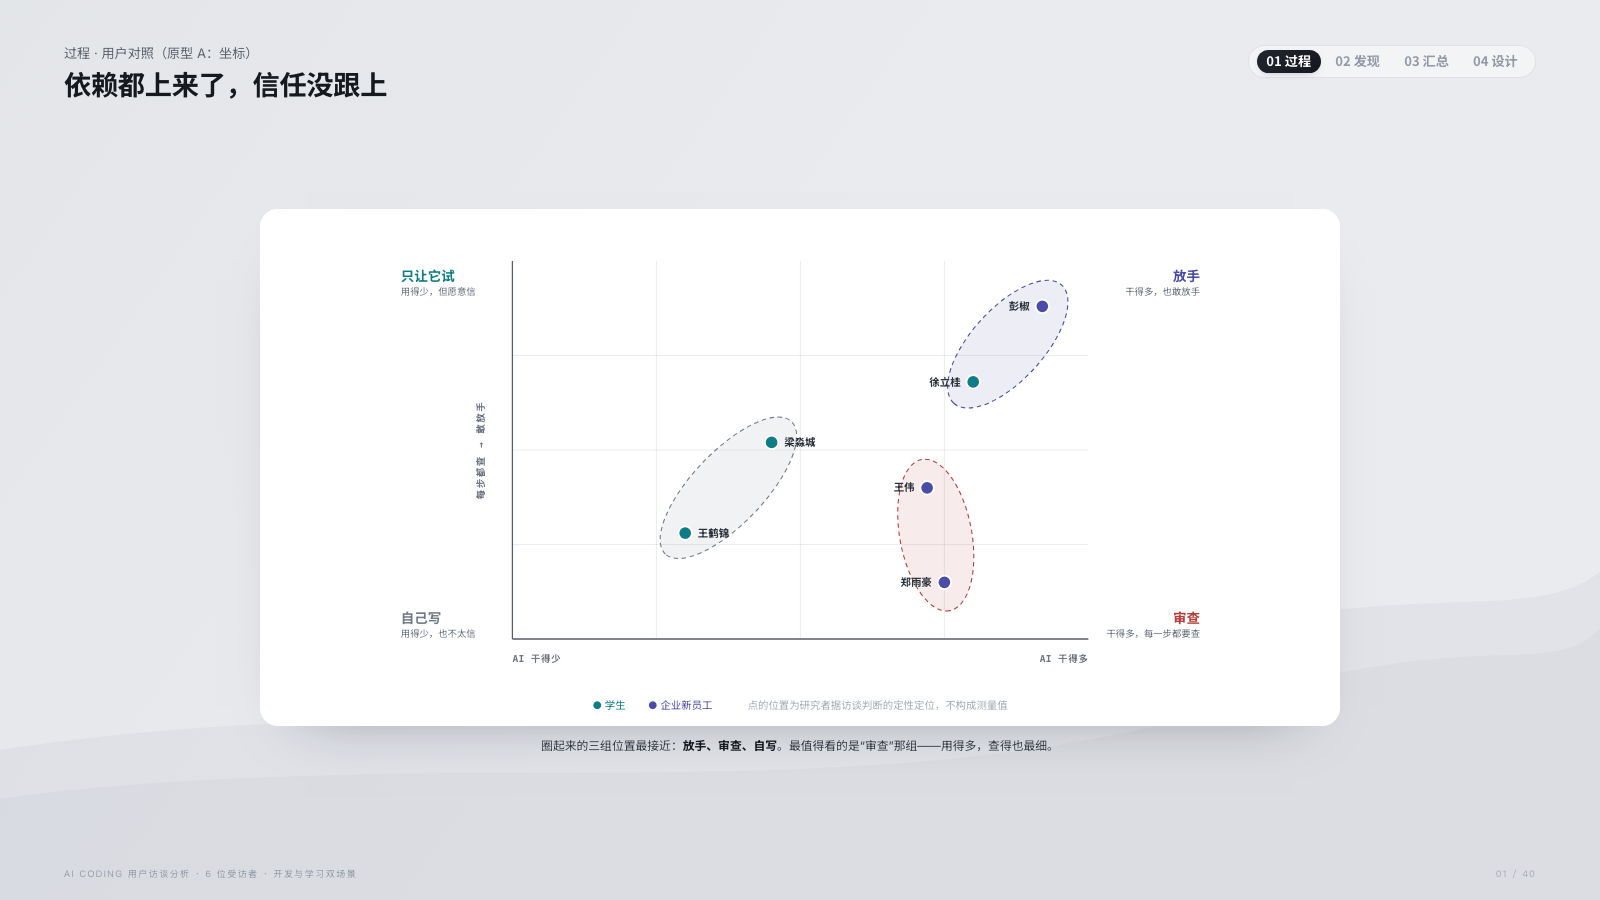
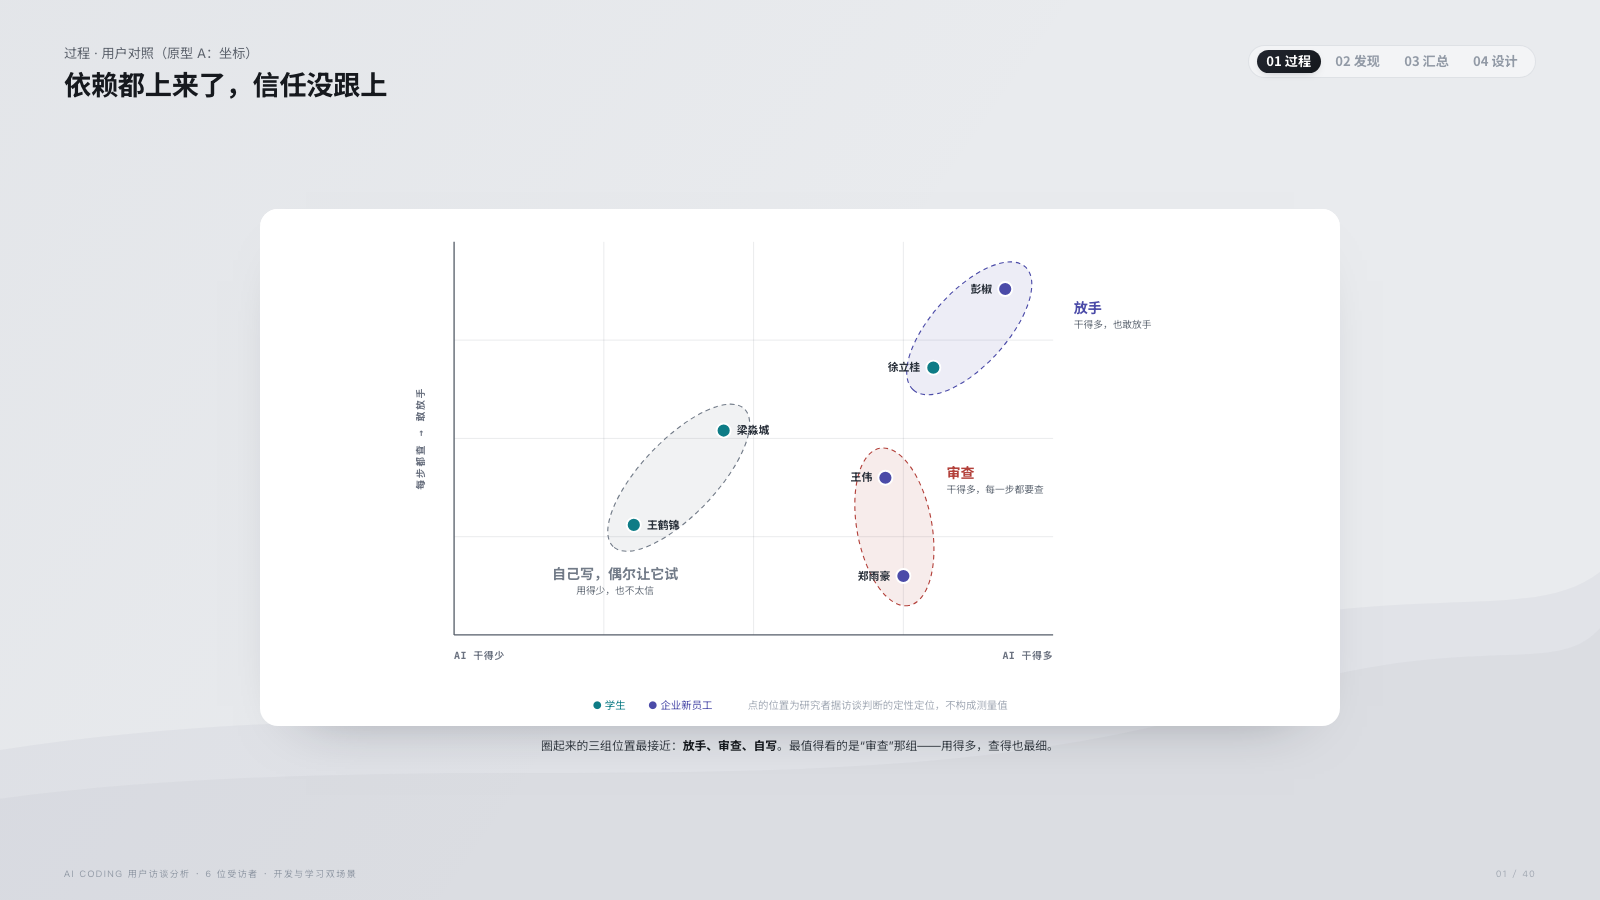
polish: 三组描述文字贴到各自的圈旁，取代四角标签
- 放手 / 审查 / 自己写·偶尔让它试 分别标注在对应虚线圈外侧
- 裁掉画面左侧空白，图表在面板内居中

diff --git a/outputs/019fc599-4de5-77a1-9612-6cbb4caa6090/AI-Coding访谈分析/_proto/介入方式对比.html b/outputs/019fc599-4de5-77a1-9612-6cbb4caa6090/AI-Coding访谈分析/_proto/介入方式对比.html
@@ -1130,11 +1130,11 @@ body.overview #panel,body.overview #toggle{display:none!important}
 </style></head><body><div id="deck"><section class="slide s-gray"><div class="head"><div class="head-l"><div class="brand"><span class="ttl">依赖都上来了，信任没跟上</span></div><div class="subttl">过程 · 用户对照（原型 A：坐标）</div></div><div class="section-tabs" aria-label="当前章节"><span class="active">01 过程</span><span class="">02 发现</span><span class="">03 汇总</span><span class="">04 设计</span></div></div><div class="body-area">
 <div class="proto">
   <div class="k-panel">
-  <svg class="k-svg" viewBox="0 0 940 520" preserveAspectRatio="xMidYMid meet">
+  <svg class="k-svg" viewBox="90 22 860 500" preserveAspectRatio="xMidYMid meet">
     <g class="k-gridg"><line x1="310.0" y1="40" x2="310.0" y2="460" stroke="rgba(76,85,98,.13)"/><line x1="150" y1="145.0" x2="790" y2="145.0" stroke="rgba(76,85,98,.13)"/><line x1="470.0" y1="40" x2="470.0" y2="460" stroke="rgba(76,85,98,.13)"/><line x1="150" y1="250.0" x2="790" y2="250.0" stroke="rgba(76,85,98,.13)"/><line x1="630.0" y1="40" x2="630.0" y2="460" stroke="rgba(76,85,98,.13)"/><line x1="150" y1="355.0" x2="790" y2="355.0" stroke="rgba(76,85,98,.13)"/></g>
     <line class="k-axis" x1="150" y1="460" x2="790" y2="460"/>
     <line class="k-axis" x1="150" y1="40" x2="150" y2="460"/>
-    <text class="k-ql k-Q2" x="26" y="62" text-anchor="start">只让它试</text><text class="k-qn" x="26" y="78" text-anchor="start">用得少，但愿意信</text><text class="k-ql k-Q1" x="914" y="62" text-anchor="end">放手</text><text class="k-qn" x="914" y="78" text-anchor="end">干得多，也敢放手</text><text class="k-ql k-Q3" x="26" y="442" text-anchor="start">自己写</text><text class="k-qn" x="26" y="458" text-anchor="start">用得少，也不太信</text><text class="k-ql k-Q4" x="914" y="442" text-anchor="end">审查</text><text class="k-qn" x="914" y="458" text-anchor="end">干得多，每一步都要查</text>
+    <text class="k-ql k-Q1" x="812" y="116" text-anchor="start">放手</text><text class="k-qn" x="812" y="132" text-anchor="start">干得多，也敢放手</text><text class="k-ql k-Q4" x="676" y="292" text-anchor="start">审查</text><text class="k-qn" x="676" y="308" text-anchor="start">干得多，每一步都要查</text><text class="k-ql k-Q3" x="322" y="400" text-anchor="middle">自己写，偶尔让它试</text><text class="k-qn" x="322" y="416" text-anchor="middle">用得少，也不太信</text>
     <ellipse cx="700.4" cy="132.4" rx="88.9" ry="40.0" fill="#4B4BA81a" stroke="#4B4BA8" stroke-dasharray="5 4" stroke-width="1.2" transform="rotate(132.4 700.4 132.4)"/><ellipse cx="620.4" cy="344.5" rx="85.4" ry="40.0" fill="#B3403A1a" stroke="#B3403A" stroke-dasharray="5 4" stroke-width="1.2" transform="rotate(79.6 620.4 344.5)"/><ellipse cx="390.0" cy="292.0" rx="101.6" ry="40.0" fill="#727B881a" stroke="#727B88" stroke-dasharray="5 4" stroke-width="1.2" transform="rotate(133.6 390.0 292.0)"/>
     <g class="k-pt s"><circle cx="342.0" cy="342.4" r="7.5"/><text x="356.0" y="346.4" text-anchor="start">王鹤锦</text></g><g class="k-pt s"><circle cx="438.0" cy="241.6" r="7.5"/><text x="452.0" y="245.6" text-anchor="start">梁淼城</text></g><g class="k-pt s"><circle cx="662.0" cy="174.4" r="7.5"/><text x="648.0" y="178.4" text-anchor="end">徐立桂</text></g><g class="k-pt e"><circle cx="610.8" cy="292.0" r="7.5"/><text x="596.8" y="296.0" text-anchor="end">王伟</text></g><g class="k-pt e"><circle cx="630.0" cy="397.0" r="7.5"/><text x="616.0" y="401.0" text-anchor="end">郑雨豪</text></g><g class="k-pt e"><circle cx="738.8" cy="90.4" r="7.5"/><text x="724.8" y="94.4" text-anchor="end">彭椒</text></g>
     <text class="k-al" x="150" y="486" text-anchor="start">AI 干得少</text>

diff --git a/outputs/019fc599-4de5-77a1-9612-6cbb4caa6090/AI-Coding访谈分析/_src/d_proto.py b/outputs/019fc599-4de5-77a1-9612-6cbb4caa6090/AI-Coding访谈分析/_src/d_proto.py
@@ -28,10 +28,9 @@ for i in range(1, 4):
     _grid += '<line x1="%d" y1="%.1f" x2="%d" y2="%.1f" stroke="%s"/>' % (X0, gy, X0 + PW, gy, GRID)
 
 _QUAD = [
-    ('k-Q2', 26, 62, 'start', '只让它试', '用得少，但愿意信'),
-    ('k-Q1', 914, 62, 'end', '放手', '干得多，也敢放手'),
-    ('k-Q3', 26, 442, 'start', '自己写', '用得少，也不太信'),
-    ('k-Q4', 914, 442, 'end', '审查', '干得多，每一步都要查'),
+    ('k-Q1', 812, 116, 'start', '放手', '干得多，也敢放手'),
+    ('k-Q4', 676, 292, 'start', '审查', '干得多，每一步都要查'),
+    ('k-Q3', 322, 400, 'middle', '自己写，偶尔让它试', '用得少，也不太信'),
 ]
 _qlab = ''
 for cls, x, y, anchor, t, note in _QUAD:
@@ -74,7 +73,7 @@ for a, b, col in CLUSTERS:
 SCATTER = '''
 <div class="proto">
   <div class="k-panel">
-  <svg class="k-svg" viewBox="0 0 940 520" preserveAspectRatio="xMidYMid meet">
+  <svg class="k-svg" viewBox="90 22 860 500" preserveAspectRatio="xMidYMid meet">
     <g class="k-gridg">%s</g>
     <line class="k-axis" x1="%d" y1="%d" x2="%d" y2="%d"/>
     <line class="k-axis" x1="%d" y1="%d" x2="%d" y2="%d"/>
